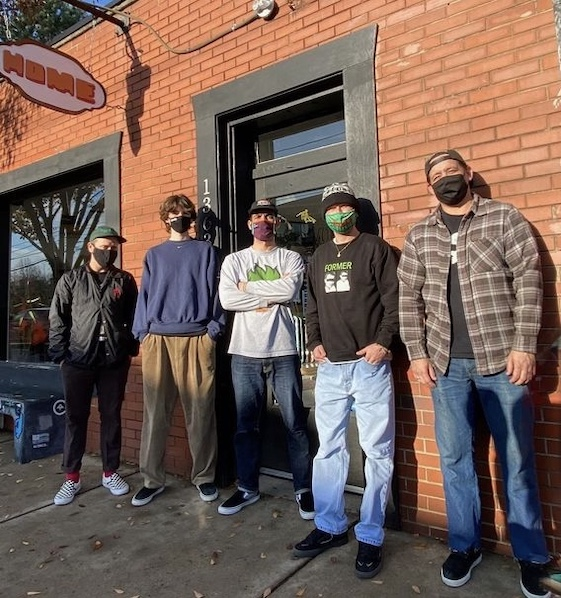
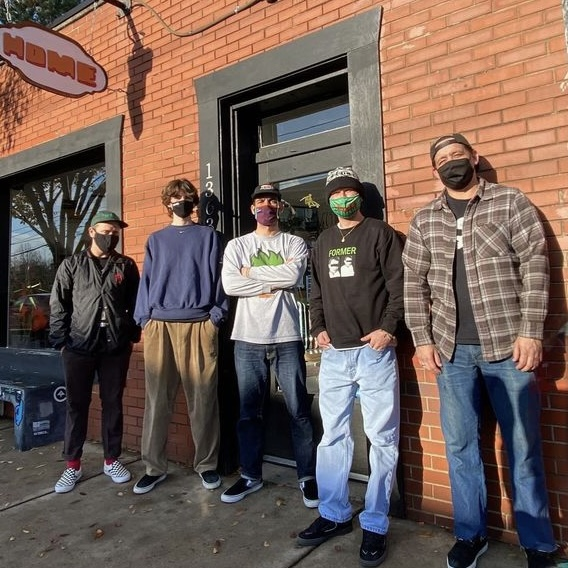
added photos and shop history

diff --git a/about.html b/about.html
@@ -16,22 +16,36 @@
     <link rel="preconnect" href="https://fonts.gstatic.com" crossorigin>
     <link href="https://fonts.googleapis.com/css2?family=Syncopate&display=swap" rel="stylesheet">
 
+    <link rel="preconnect" href="https://fonts.googleapis.com">
+    <link rel="preconnect" href="https://fonts.gstatic.com" crossorigin>
+    <link href="https://fonts.googleapis.com/css2?family=Lato:wght@300&display=swap" rel="stylesheet">
+    <link rel="preconnect" href="https://fonts.googleapis.com">
+    <link rel="preconnect" href="https://fonts.gstatic.com" crossorigin>
+    <link href="https://fonts.googleapis.com/css2?family=Lato:ital@1&display=swap" rel="stylesheet">
+
+
     <title>About | Home Skateshop</title>
 
 
 <body class="aboutBody">
-    
+
 
     <nav class="navBar">
-        <a class="topLink" href="index.html">HOME</a> 
-        <a class="topLink" href="about.html">ABOUT</a> 
-        <a class="topLink" href="brands.html">BRANDS</a> 
-        <a class="topLink" href="team.html">TEAM</a> 
+        <a class="topLink" href="index.html">HOME</a>
+        <a class="topLink" href="about.html">ABOUT</a>
+        <a class="topLink" href="brands.html">BRANDS</a>
+        <a class="topLink" href="team.html">TEAM</a>
     </nav>
 
     <header class="aboutTitle">
         HOME SKATESHOP
     </header>
+
+    <section class="underTitle">
+        <h2>
+            LOUISVILLE, KY | SINCE '94
+        </h2>
+    </section>
 
     <section class="aboutPhoto">
         <img id="shopView" src="aboutPhoto.jpg" alt="showView">
@@ -39,17 +53,45 @@
 
     <section class="history">
         <p>
-        Home Skateshop was started by a skateboarder in 1994. 
-        We are here to serve the community of Louisville and beyond with the highest quality skateboarding gear and accessories.
-        We are still skater owned and operated to this day.
-       </p>
+            Home Skateshop was started by a skateboarder in 1994.
+            We are here to serve the community of Louisville and beyond with the highest quality skateboarding gear and
+            accessories.
+            We are still skater owned and operated to this day.
+        </p>
+    </section>
+
+    <section class="insideShop">
+        <img id="inside" src="insideShop.jpg" alt="insideTheShop">
+
+    </section>
+
+
+    <section class="history2">
+        <p>Home is the longest running skateboards-only shop in the city.
+            Our legacy began in 1988 with founding skater Becky Hornung: “I just wanted to share with the local skaters
+            and
+            give them a nice place to come and hang out and buy the stuff.”
+        </p>
+
+        <p>
+            Back then, the shop was called Skateboards Unlimited and was Louisville’s first skateboards-only skate shop.
+            When skateboarding slumped in 1993, Skateboards Unlimited went under.
+            Sean Fawbush was the manager of Skateboards Unlimited when it closed down.
+            He then started Home (a shop of his own), and Becky funneled her customers over to Fawbush-Louisville’s
+            scene stayed alive.
+        </p>
+
+        <p>
+            We have occupied four different locations over the years spanning from one side of the Highlands to the
+            other. 
+        </p>
     </section>
 
     <section class="aboutCollage">
         <img id="artWall" src="artWall.jpg" alt="artWall">
         <img id="employees" src="employees.jpg" alt="employees">
-
     </section>
+
 
 
 

diff --git a/skatestyles.css b/skatestyles.css
@@ -97,6 +97,8 @@ body {
     background-color: black;
     font-family: 'syncopate';
     justify-content: center;
+    margin-left: 1em;
+    margin-right: 1em;
 }
 
 .topLink {
@@ -106,7 +108,7 @@ body {
 }
 
 .topLink:hover {
-    color: rgb(108, 108, 108);
+    color: rgb(230, 158, 58);
     font-weight: 700;
     cursor: pointer;
 }
@@ -115,14 +117,24 @@ body {
     font-family: 'syncopate';
     display: grid;
     text-align: center;
-    margin: 1em;
+    margin-left: 1em;
+    margin-right: 1em;
+    margin-top: 1em;
     font-size: 30px;
     font-weight: 700;
 }
 
+.underTitle {
+    display: grid;
+    text-align: center;
+    font-family: 'lato';
+    font-size: 10px;
+    letter-spacing: 3px;
+}
+
 .aboutPhoto {
     display: grid;
-    justify-content: center;    
+    justify-content: center;
 }
 
 #shopView {
@@ -130,29 +142,48 @@ body {
 }
 
 .history {
-    font-family: 'Segoe UI', Tahoma, Geneva, Verdana, sans-serif;
+    font-family: 'lato';
+    font-size: 20px;
+    background-color: black;
+    color: rgb(238, 234, 229);
     text-align: center;
+    margin: 2em;
+    padding: 1em;
 }
 
-.aboutCollage{
+.insideShop {
     display: grid;
-    grid-template-columns: repeat(4, 1fr);
-    column-gap: 1em;
+    justify-items: center;
+}
+
+#inside {
+    max-width: 100%;
+    margin: 2em;
+}
+
+.aboutCollage {
+    display: grid;
+    justify-items: center;
 }
 
 #artWall {
     max-width: 100%;
-    grid-column: 1 / 3;
-    align-self: center;
 }
 
 #employees {
     max-width: 100%;
-    grid-column: 3 / 5;
-    justify-self: center;
+    margin: 2em;
 }
 
-
+.history2 {
+    font-family: 'lato';
+    font-size: 20px;
+    background-color: black;
+    color: rgb(238, 234, 229);
+    text-align: center;
+    margin: 2em;
+    padding: 1em;
+}
 
 
 
@@ -164,7 +195,7 @@ body {
 @media only screen and (min-width: 768px) {
 
 
-/*----- HOME PAGE MEDIA -----*/
+    /*----- HOME PAGE MEDIA -----*/
     #homeTitle {
         font-size: 40px;
     }
@@ -202,8 +233,31 @@ body {
         color: rgb(238, 234, 229);
         font-size: 25px;
     }
+
     /*----- END HOME PAGE MEDIA -----*/
-    
+
+
+    /*----- ABOUT PAGE MEDIA -----*/
+
+    .aboutCollage {
+        display: grid;
+        grid-template-columns: repeat(4, 1fr);
+        column-gap: 1em;
+    }
+
+    #artWall {
+        max-width: 100%;
+        grid-column: 1 / 3;
+        align-self: center;
+    }
+
+    #employees {
+        max-width: 100%;
+        grid-column: 3 / 5;
+        justify-self: center;
+    }
+
+
 
 
 }
